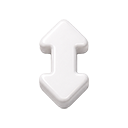
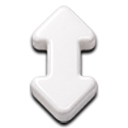
uxi-pass: boosted-piece sprites + bigger tile-edge numbers
- new piece.<colour>.boosted slots: boosted colours render a lit-up
  sprite variant instead of the base piece. Placeholders are DERIVED
  from the current piece art (brightness/saturation lift + soft face
  sheen, clipped to the piece silhouette) — regenerating re-derives from
  whatever piece art is current; CD-painted boosted sprites are then
  ledger-protected like any other art
- tile-edge numbers enlarged: boost value badge 15px (was 10) and the
  special countdown badge 22px circle / 13px text (was 16/10), both
  z-raised above the overlay glyphs
- CD board.frame art landed (13 CD files now skipped by the generator)

Changed region(s): [[0.2188, 0.5938, 0.7812, 1.0], [0.5312, 0.0625, 0.7812, 0.5938], [0.2188, 0.25, 0.4062, 0.5938]]

diff --git a/src/styles.css b/src/styles.css
@@ -483,15 +483,16 @@ button.primary {
 .spe { font-size: 60%; }
 .tin .spe { font-size: 1.15em; text-shadow: 0 1px 3px rgba(0,0,0,.6); }
 .cd {
-  position: absolute; top: -3px; right: -3px; background: var(--bg); color: var(--gold);
-  border: 1px solid var(--gold); border-radius: 50%; width: 16px; height: 16px;
-  font-size: 10px; font-weight: 800; display: flex; align-items: center; justify-content: center;
+  position: absolute; top: -4px; right: -4px; background: var(--bg); color: var(--gold);
+  border: 1.5px solid var(--gold); border-radius: 50%; width: 22px; height: 22px;
+  font-size: 13px; font-weight: 800; display: flex; align-items: center; justify-content: center;
+  z-index: 2;
 }
 .boostbadge {
-  position: absolute; bottom: 1px; left: 3px;
-  font-size: 10px; font-weight: 800; line-height: 1;
-  color: #fff; text-shadow: 0 1px 2px rgba(0,0,0,.85), 0 0 4px rgba(0,0,0,.5);
-  pointer-events: none;
+  position: absolute; bottom: 5px; left: 6px;
+  font-size: 15px; font-weight: 800; line-height: 1;
+  color: #fff; text-shadow: 0 1px 2px rgba(0,0,0,.9), 0 0 5px rgba(0,0,0,.6);
+  pointer-events: none; z-index: 2;
 }
 .boostbadge.gold { color: var(--gold); }
 

diff --git a/src/app.js b/src/app.js
@@ -859,9 +859,12 @@ function Board({ G }) {
     const specialSlot = t.special
       ? (t.special === 'arrow' ? 'special.arrow-' + (t.dir === 'h' ? 'h' : 'v') : 'special.' + t.special)
       : null;
+    // boosted colours swap to their lit-up sprite variant (CD, 2026-08-31)
+    const pieceSlot = 'piece.' + SKIN.PIECE_SLOTS[t.color];
     const art = t.chomper ? slotImg('tile.chomper', 'piece-img')
       : t.chest ? slotImg('tile.chest', 'piece-img')
-      : slotImg('piece.' + SKIN.PIECE_SLOTS[t.color], 'piece-img');
+      : ((G.mods.boosts[t.color] || 0) > 0 && slotImg(pieceSlot + '.boosted', 'piece-img'))
+        || slotImg(pieceSlot, 'piece-img');
     const spArt = t.special ? slotImg(specialSlot, 'sp-img') : null;
     // stacked volume: the art's bottom lip tucks BEHIND the row below —
     // LOWER rows draw over upper ones (z rises with row; CD fix 2026-08-31)

diff --git a/tools/gen_placeholders.py b/tools/gen_placeholders.py
@@ -121,6 +121,23 @@ def piece(slot, colour):
                       fill=(255, 255, 255, 200), outline=(0, 0, 0, 60))
     return label(img, slot)
 
+def boosted_piece(colour):
+    """Lit-up variant for boosted colours, DERIVED from the current piece art
+    (CD art included) — brightness + saturation lift + a soft top glow. The
+    CD replaces it with a real sprite whenever; the ledger then protects it."""
+    from PIL import ImageEnhance
+    src = Image.open(os.path.join(A, f'pieces/{colour}.png')).convert('RGBA')
+    rgb, alpha = src.convert('RGB'), src.split()[3]
+    rgb = ImageEnhance.Brightness(rgb).enhance(1.30)
+    rgb = ImageEnhance.Color(rgb).enhance(1.15)
+    img = Image.merge('RGBA', (*rgb.split(), alpha))
+    glow = Image.new('RGBA', src.size, (0, 0, 0, 0))
+    ImageDraw.Draw(glow).ellipse([28, -40, src.width - 28, src.height * 0.55],
+                                 fill=(255, 255, 235, 70))
+    img.alpha_composite(glow)
+    img.putalpha(alpha)  # glow never spills outside the piece silhouette
+    return img
+
 # ------------------------------------------------------------- emoji tile
 def emoji_tile(slot, ch, bg=None, border=None, px=150):
     img = Image.new('RGBA', (256, 256), (0, 0, 0, 0))
@@ -247,6 +264,9 @@ def main():
 
     for colour in PIECE_GRADS:
         jobs[f'piece.{colour}'] = (f'pieces/{colour}.png', lambda s=f'piece.{colour}', c=colour: piece(s, c))
+    for colour in PIECE_GRADS:  # separate pass: derives from the (possibly CD) piece files
+        jobs[f'piece.{colour}.boosted'] = (f'pieces/{colour}-boosted.png',
+                                           lambda c=colour: boosted_piece(c))
     dark = ((43, 33, 86), (24, 18, 52))
     for slot, ch in [('special.arrow-h', '↔'), ('special.arrow-v', '↕'),
                      ('special.lightning', '⚡'), ('special.bomb', '💣')]:

diff --git a/ASSET_MANIFEST.md b/ASSET_MANIFEST.md
@@ -43,6 +43,7 @@ Review surface: `http://localhost:<port>/src/assets/styleguide.html` (run `sh sy
 | Slot | Replaces | Spec |
 | --- | --- | --- |
 | `piece.red` `piece.yellow` `piece.green` `piece.blue` `piece.purple` `piece.orange` | CSS-gradient tiles (`.bg0`–`.bg5`) | 256×256; colour order matches `.bg0`–`.bg5` |
+| `piece.<colour>.boosted` (×6, `pieces/<colour>-boosted.png`) | lit-up variant shown when that colour is boosted | 256×256; placeholder is auto-derived from the base piece (brightness + sheen) — replace with a real sprite anytime |
 | `special.arrow-h` `special.arrow-v` | ↔ / ↕ overlay | 256×256, rendered AS-IS (never tinted) |
 | `special.lightning` | ⚡ overlay | 256×256, as-is |
 | `special.bomb` | 💣 overlay | 256×256, as-is |
